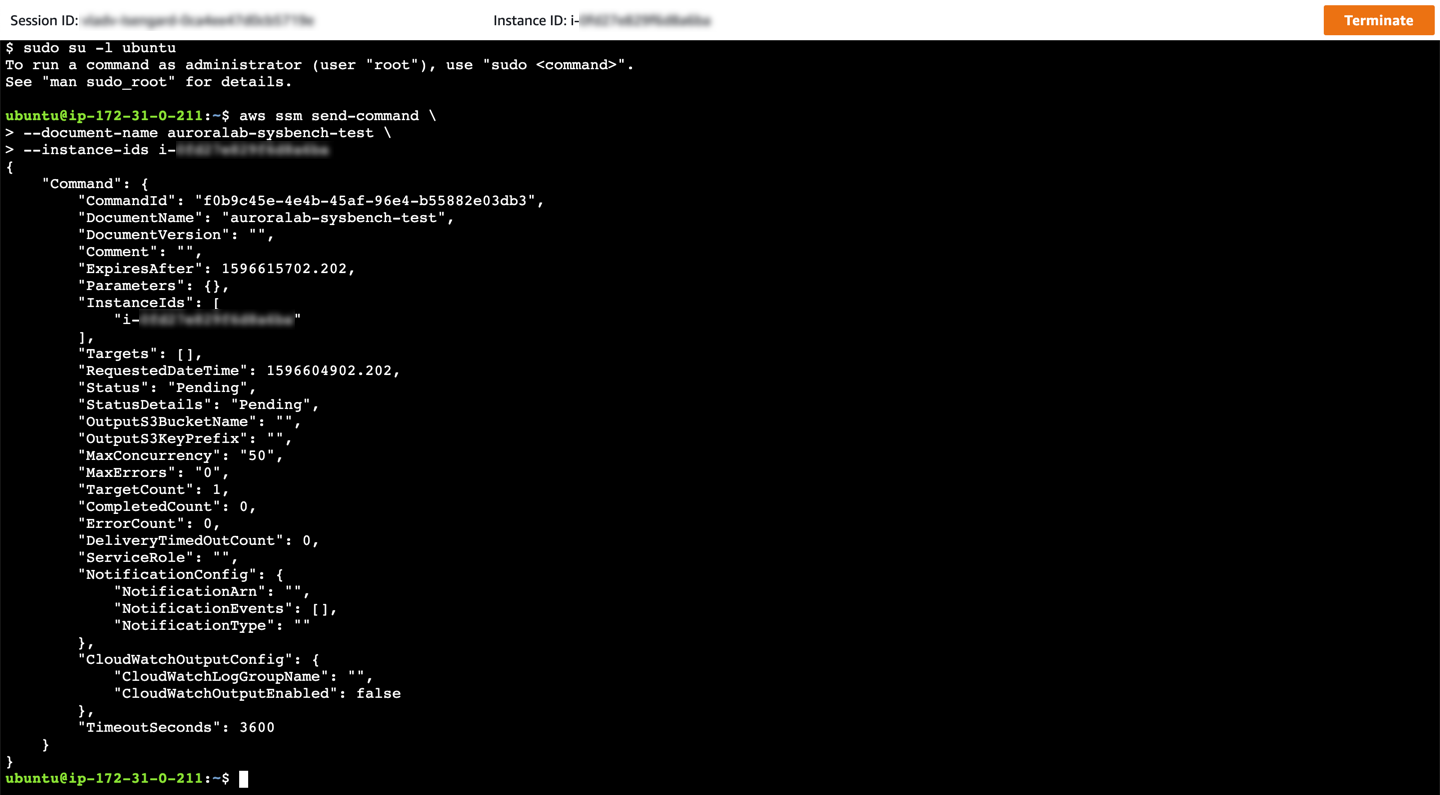
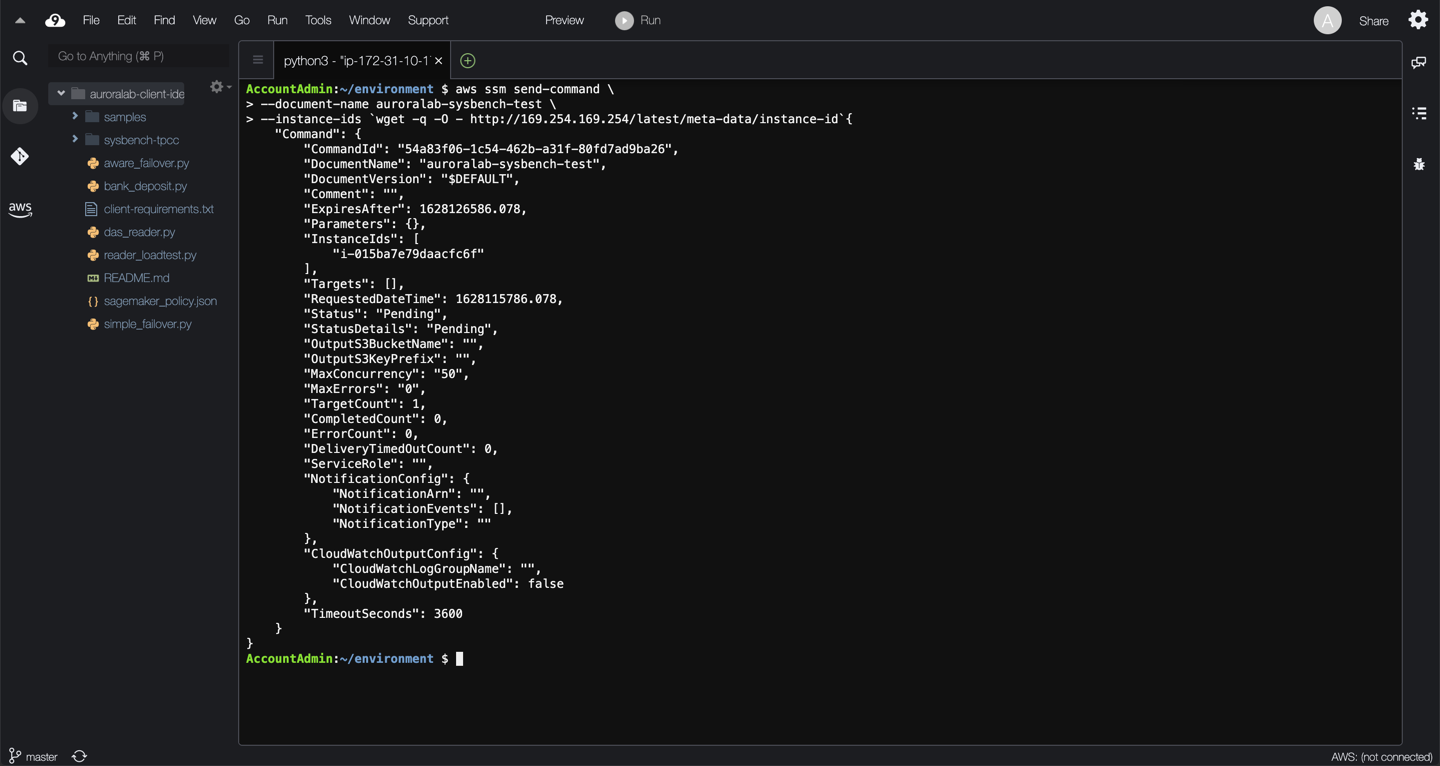
Updated screenshots provisioned/perfins, bug fixes

diff --git a/docs/provisioned/perf-insights/index.md b/docs/provisioned/perf-insights/index.md
@@ -11,7 +11,7 @@ This lab contains the following tasks:
 This lab requires the following prerequisites:
 
 * [Get Started](/prereqs/environment/)
-* [Connect to the Session Manager Workstation](/prereqs/connect/)
+* [Connect to the Cloud9 Desktop](/prereqs/connect/)
 * [Create a New DB Cluster](/provisioned/create/) (conditional, only if you plan to create a cluster manually)
 
 
@@ -19,22 +19,22 @@ This lab requires the following prerequisites:
 
 You will use Percona's TPCC-like benchmark script based on sysbench to generate load. For simplicity we have packaged the correct set of commands in an <a href="https://docs.aws.amazon.com/systems-manager/latest/userguide/sysman-ssm-docs.html" target="_blank">AWS Systems Manager Command Document</a>. You will use <a href="https://docs.aws.amazon.com/systems-manager/latest/userguide/execute-remote-commands.html" target="_blank">AWS Systems Manager Run Command</a> to execute the test.
 
-If you are not already connected to the Session Manager workstation command line, please connect [following these instructions](/prereqs/connect/). Once connected, choose the tab below that best matches your circumstances, and run the indicated commands:
+If you have not already opened a terminal window or the Cloud9 desktop in a previous lab, please [following these instructions](/prereqs/connect/) to do so now. Once connected, choose the tab below that best matches your circumstances, and run the indicated commands:
 
 === "The DB cluster has been pre-created for me"
-    If AWS CloudFormation has provisioned the DB cluster on your behalf, and you skipped the **Create a New DB Cluster** lab, you can run the simplified command below, replacing the ==[ec2Instance]== placeholder with the appropriate value from your CloudFormation stack outputs, or Event Engine Team Dashboard if you are participating in an organized workshop.
+    If AWS CloudFormation has provisioned the DB cluster on your behalf, and you skipped the **Create a New DB Cluster** lab, you can run the simplified command below:
 
         aws ssm send-command \
         --document-name auroralab-sysbench-test \
-        --instance-ids [ec2Instance]
+        --instance-ids `wget -q -O - http://169.254.169.254/latest/meta-data/instance-id`
 
 
 === "I have created the DB cluster myself"
-    If you have completed the [Create a New DB Cluster](/provisioned/create/) lab, and created the Aurora DB cluster manually execute the command below, replacing the ==[ec2Instance]== placeholder with the appropriate value from your CloudFormation stack outputs, or Event Engine Team Dashboard if you are participating in an organized workshop. Also replace the ==[clusterEndpoint]== placeholder with the cluster endpoint of your DB cluster.
+    If you have completed the [Create a New DB Cluster](/provisioned/create/) lab, and created the Aurora DB cluster manually execute the command below, replacing the ==[clusterEndpoint]== placeholder with the cluster endpoint of your DB cluster.
 
         aws ssm send-command \
         --document-name auroralab-sysbench-test \
-        --instance-ids [ec2Instance] \
+        --instance-ids `wget -q -O - http://169.254.169.254/latest/meta-data/instance-id` \
         --parameters \
         clusterEndpoint=[clusterEndpoint],\
         dbUser=$DBUSER,\
@@ -60,15 +60,15 @@ While the command is running, open the <a href="https://console.aws.amazon.com/r
 
 Find the DB instance in the cluster that has the **Writer** role and click on the name, to view the DB instance details. 
 
-<span class="image">![RDS Dashboard](2-find-writer.png?raw=true)</span>
+<span class="image">![RDS Dashboard](rds-find-writer.png?raw=true)</span>
 
 Next, select the **Monitoring** tab, click the **Monitoring** button, to expand the list of available actions, and choose **Performance Insights**. This will open a new browser tab with the **Performance Insights Dashboard** for that DB instance.
 
-<span class="image">![Select DB Instance](2-select-monitoring.png?raw=true)</span>
+<span class="image">![Select DB Instance](rds-select-monitoring.png?raw=true)</span>
 
 The dashboard is divided into 3 sections, allowing you to drill down from high level performance indicator metrics down to individual queries, waits, users and hosts generating the load.
 
-<span class="image">![Performance Insights Dashboard](2-pi-dashboard.png?raw=true)</span>
+<span class="image">![Performance Insights Dashboard](rds-pi-dashboard.png?raw=true)</span>
 
 The performance metrics displayed by the dashboard are a moving time window. You can adjust the size of the time window by clicking the buttons across the top right of the interface (`5m`, `1h`, `5h`, `24h`, `1w`, `all`). You can also zoom into a specific period of time by dragging across the graphs.
 
@@ -86,7 +86,7 @@ Granular Session Activity | Sort by **Waits**, **SQL** (default), **Users** and 
 
 After running the load generator workload above, you will see a performance profile similar to the example below in the Performance Insights dashboard. The load generator command will first create an initial data set using `sysbench prepare`. And then will run an OLTP workload for the duration of 5 minutes, consisting of concurrent transactional reads and writes using 4 parallel threads.
 
-<span class="image">![Load Test Profile](3-load-profile.png?raw=true)</span>
+<span class="image">![Load Test Profile](rds-pi-loadprofile.png?raw=true)</span>
 
 Amazon Aurora MySQL specific wait events are documented in the <a href="https://docs.aws.amazon.com/AmazonRDS/latest/AuroraUserGuide/AuroraMySQL.Reference.html#AuroraMySQL.Reference.Waitevents" target="_blank">Amazon Aurora MySQL Reference guide</a>. Use the Performance Insights dashboard and the reference guide documentation to evaluate the workload profile of your load test, and answer the following questions:
 

diff --git a/docs/provisioned/autoscale/index.md b/docs/provisioned/autoscale/index.md
@@ -10,7 +10,7 @@ This lab contains the following tasks:
 This lab requires the following prerequisites:
 
 * [Get Started](/prereqs/environment/)
-* [Connect to the Session Manager Workstation](/prereqs/connect/)
+* [Connect to the Cloud9 Desktop](/prereqs/connect/)
 * [Create a New DB Cluster](/provisioned/create/) (conditional, only if you plan to create a cluster manually)
 * [Connect to the DB Cluster and Load Data](/provisioned/interact/)
 

diff --git a/docs/provisioned/backtrack/index.md b/docs/provisioned/backtrack/index.md
@@ -11,7 +11,7 @@ This lab contains the following tasks:
 This lab requires the following prerequisites:
 
 * [Get Started](/prereqs/environment/)
-* [Connect to the Session Manager Workstation](/prereqs/connect/)
+* [Connect to the Cloud9 Desktop](/prereqs/connect/)
 * [Create a New DB Cluster](/provisioned/create/) (conditional, only if you plan to create a cluster manually)
 * [Connect to the DB Cluster and Load Data](/provisioned/interact/)
 

diff --git a/docs/provisioned/clone/index.md b/docs/provisioned/clone/index.md
@@ -13,7 +13,7 @@ This lab contains the following tasks:
 This lab requires the following prerequisites:
 
 * [Get Started](/prereqs/environment/)
-* [Connect to the Session Manager Workstation](/prereqs/connect/)
+* [Connect to the Cloud9 Desktop](/prereqs/connect/)
 * [Create a New DB Cluster](/provisioned/create/) (conditional, only if you plan to create a cluster manually)
 * [Connect to the DB Cluster and Load Data](/provisioned/interact/)
 

diff --git a/docs/provisioned/create/index.md b/docs/provisioned/create/index.md
@@ -20,7 +20,7 @@ This lab contains the following tasks:
 This lab requires the following lab modules to be completed first:
 
 * [Get Started](/prereqs/environment/) (you do not need to provision a DB cluster automatically)
-* [Connect to the Session Manager Workstation](/prereqs/connect/) (needed for task \#6)
+* [Connect to the Cloud9 Desktop](/prereqs/connect/) (needed for task \#6)
 
 ## 1. Create the DB cluster
 

diff --git a/docs/provisioned/interact/index.md b/docs/provisioned/interact/index.md
@@ -10,7 +10,7 @@ This lab contains the following tasks:
 This lab requires the following prerequisites:
 
 * [Get Started](/prereqs/environment/)
-* [Connect to the Session Manager Workstation](/prereqs/connect/)
+* [Connect to the Cloud9 Desktop](/prereqs/connect/)
 * [Create a New DB Cluster](/provisioned/create/) (conditional, only if you plan to create a cluster manually)
 
 
